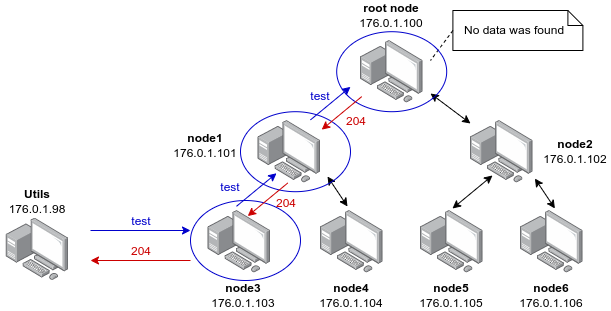
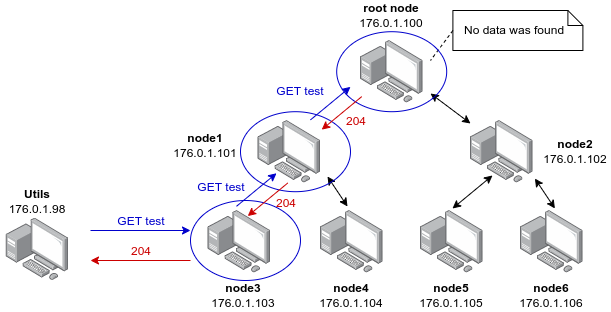
Modified images

diff --git a/README.md b/README.md
@@ -140,7 +140,7 @@ data: "The value was successfully stored in the cache"
 
 <img src="img/03.png">
 
-If we now try to execute the previous GET command, we get the following answer as the data is now known to the root node.
+If we now try to execute the previous GET command, we get the following message as the data is now known to the root node.
 
 ```
 python3 cache_client.py 176.0.1.103 get test
@@ -155,7 +155,7 @@ data: "Howdy, how's it going?"
 
 #### DELETE
 
-The DELETE operation works in the similar fashion as the PUT operation. Once the data is deleted from the local storage, the update is propagated up the tree structure.
+The `DELETE` operation works in a similar fashion as the `PUT` operation. Once the data is deleted from the local storage, the update is propagated up the tree structure.
 
 ```
 python3 cache_client.py 176.0.1.106 delete test
@@ -168,7 +168,7 @@ status_code: 200
 data: "Data was successfully deleted from the cache"
 ```
 
-However, if we send the get request to node `176.0.1.103` again, we still receive the data as the information about the data being deleted does not traverse down the other tree branch.
+However, if we send the `GET` request to node `176.0.1.103` again, we still receive the data as the information about the data being deleted does not traverse down the other branch.
 
 <img src="img/05.png">
 
@@ -182,6 +182,6 @@ Another way to interact with the nodes is to use the interface that comes with e
 
 As you might have noticed, with each PUT or DELETE operation, the cache gets updated up towards the root node. Therefore, some nodes may still have old information in their local storage. The only node that has consistent data all the time is the root node itself. There are a few possible ways to deal with this issue, all of which have their proc & cons.
 
-### Approach #1
-
 Since the root node keeps the entire structure of the cache in memory, it could periodically broadcast changes to all the other nodes. Every record would be stored with a timestamp. If a node receives an update from the root node, it compares it to its local record and depending on its timestamp, it would either update it or discard it. The issue with this approach is that it puts additional stress on the root node, which already represents a bottle neck of the system. The mitigate the overhead embedded in the periodical broadcast, the root node could only notify those nodes who are known to have old data. However, this would require the root node to keep track of what data each and every node has in its local storage which would significantly increase the space complexity.
+
+### Approach #2
